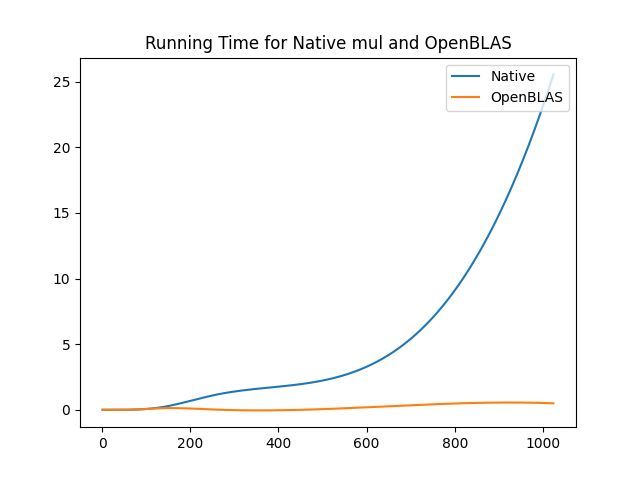
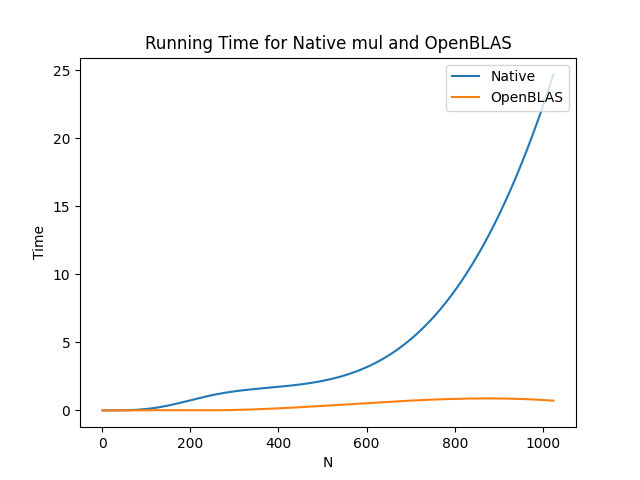
lesson02 data

diff --git a/lesson02/mul_test_all.py b/lesson02/mul_test_all.py
@@ -1,7 +1,6 @@
 import os
 import argparse
 from posixpath import join
-import sys
 import matplotlib.pyplot as plt
 import numpy as np
 from scipy.interpolate import interp1d
@@ -48,10 +47,11 @@ def test_all(show_log: bool = False, max_n: int = 8, **kwargs):
         with open("results.txt", 'r') as f:
             results_now = [float(x) for x in f.readlines()]
             results[k] = results_now
-            print(f"N = {k:3}, time_native = {results[k][0]:8}, time_OpenBLAS = {results[k][1]:8}")
+            print(f"N = {k:4}, time_native = {results[k][0]:9}, time_OpenBLAS = {results[k][1]:9}")
     # print(results)
     # 画出图像
 
+    # 绘制平滑曲线
     def interp1d_data(X_data, Y_data):
         cubic_interploation_model = interp1d(X_data, Y_data, kind="cubic")
         xs = np.linspace(np.min(X_data), np.max(X_data), 500)
@@ -61,15 +61,20 @@ def test_all(show_log: bool = False, max_n: int = 8, **kwargs):
     X_linear = np.linspace(np.min(X), np.max(X), 500)
     Y1, Y2 = [interp1d_data(X, [results[k][z] for k in results]) for z in range(2)]
     plt.title('Running Time for Native mul and OpenBLAS')
+    plt.xlabel("N")
+    plt.ylabel("Time")
     plt.plot(X_linear, Y1, X_linear, Y2)
     plt.legend(('Native', 'OpenBLAS'), loc='upper right')
     plt.savefig("../data/plot.png")
     print('Saved image file: ../data/plot.png')
     plt.clf()
 
+    # 画一画 log 看看
     if show_log:
         Y1_log, Y2_log = [interp1d_data(X, [np.log(results[k][z]) for k in results]) for z in range(2)]
         plt.title('Running Time (log) for Native mul and OpenBLAS')
+        plt.xlabel("N")
+        plt.ylabel("Time (log)")
         plt.plot(X_linear, Y1_log, X_linear, Y2_log)
         plt.legend(('Native', 'OpenBLAS'), loc='upper right')
         plt.savefig("../data/plot_log.png")
